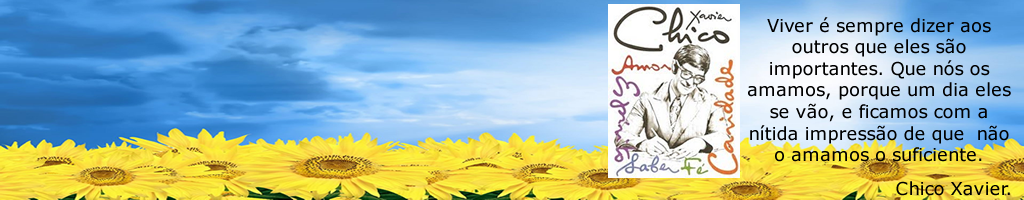
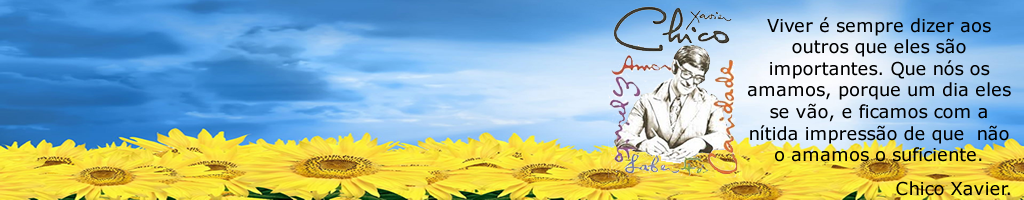
outras melhorias

Changed region(s): [[0.5938, 0.0, 0.75, 0.9]]

diff --git a/cefe-app/src/main/Menu.js b/cefe-app/src/main/Menu.js
@@ -65,13 +65,14 @@ export class Menu extends Component {
                     <div className="collapse navbar-collapse" id="navbarSupportedContent">
                         <ul className="navbar-nav mr-auto">
                         {/*Item Menu Casa Espirita*/}
-                            {casaEspirita.map(link => 
-                            <li className="nav-item dropdown" key={link.route}>
+                            {casaEspirita.map((link, ce) => 
+                            // @ts-ignore
+                            <li className="nav-item dropdown" key={ce}>
                                 <a className="nav-link dropdown-toggle" id="navbarDropdown" role="button" data-toggle="dropdown" aria-haspopup="true" aria-expanded="false">
                                 Casa Espírita
                                 </a>
-                                <div className="dropdown-menu" key={link.Diretoria} aria-labelledby="navbarDropdown">
-                                    <Link className="dropdown-item" to="/quemSomos" target="">Quem Somos</Link>
+                                <div className="dropdown-menu" aria-labelledby="navbarDropdown">
+                                    <Link className="dropdown-item" to={'/quemSomos'}>Quem Somos</Link>
                                     <Link className="dropdown-item" to={'/quemEQuem'}>Quem é quem</Link>
                                     <div className="dropdown-divider"></div>
                                     <div>
@@ -85,12 +86,12 @@ export class Menu extends Component {
                             </li>
                             )}
                             {/*Item Menu de Estudos*/}
-                            {estudos.map(link =>
-                            <li className="nav-item dropdown">
+                            {estudos.map((link, e) =>
+                            <li className="nav-item dropdown" key={e}>
                                 <a className="nav-link dropdown-toggle" id="navbarDropdown" role="button" data-toggle="dropdown" aria-haspopup="true" aria-expanded="false">
                                     Estudos
                             </a>
-                                <div className="dropdown-menu" key={link.Estudos} aria-labelledby="navbarDropdown">
+                                <div className="dropdown-menu" aria-labelledby="navbarDropdown">
                                     <Link className="dropdown-item" to={'/cursos'}>Cursos</Link>
                                     <Link className="dropdown-item" to={'/oficinas'}>Oficinas</Link>
                                     <div className="dropdown-divider"></div>
@@ -106,12 +107,12 @@ export class Menu extends Component {
                             </li>
                             )}
                             {/*Item Menu das Praticas*/}
-                            {pratica.map(link =>
-                            <li className="nav-item dropdown">
+                            {pratica.map((link, p) =>
+                            <li className="nav-item dropdown" key={p}>
                                 <a className="nav-link dropdown-toggle" id="navbarDropdown" role="button" data-toggle="dropdown" aria-haspopup="true" aria-expanded="false">
                                     Práticas
                                 </a>
-                            <div className="dropdown-menu" key={link.Praticas} aria-labelledby="navbarDropdown">
+                            <div className="dropdown-menu" aria-labelledby="navbarDropdown">
                                 <Link className="dropdown-item" to={'/aplicadoresPasses'}>Aplicadores de Passes</Link>
                                 <Link className="dropdown-item" to={'/bazar'}>Bazar</Link>
                                 <Link className="dropdown-item" to={'/eventos'}>Eventos</Link>
@@ -130,6 +131,7 @@ export class Menu extends Component {
                                         Campanhas
                                     </a>
                                     <Link className="dropdown-item" to={'/cecx'}>CE Chico Xavier</Link>
+
                                     <Link className="dropdown-item" to={'/cfas'}>Auta de Souza</Link>
                                     <Link className="dropdown-item" to={'/jlar'}>Jesus no Lar</Link>
                                 </div>                
@@ -137,18 +139,19 @@ export class Menu extends Component {
                             </li>
                             )}
                             {/*Item Menu Artes*/}
-                            {arte.map(link =>
-                                <li className="nav-item dropdown">
+                            {arte.map((link, a) =>
+                                <li className="nav-item dropdown" key={a}>
                                     <a className="nav-link dropdown-toggle" id="navbarDropdown" role="button" data-toggle="dropdown" aria-haspopup="true" aria-expanded="false">
                                         Arte Espírita
                                     </a>
-                                    <div className="dropdown-menu" key={link.Praticas} aria-labelledby="navbarDropdown">
+                                    <div className="dropdown-menu" aria-labelledby="navbarDropdown">
                                         <Link className="dropdown-item" to={'/temgirantes'}>Teatro Mesas Girantes</Link>
                                         <div className="dropdown-divider"></div>
                                         <div>
                                             <a className="nav-link" role="button" data-toggle="dropdown" aria-haspopup="true" aria-expanded="false">
                                                 Corais
                                         </a>
+
                                             <Link className="dropdown-item" to={'/cefe'}>Coral CEFE</Link>
                                             <Link className="dropdown-item" to={'/ciamimai'}>Coral Amigos de Meimei</Link>
                                         </div>
@@ -156,20 +159,23 @@ export class Menu extends Component {
                                 </li>
                             )}  
                             {/*Item Menu Contatos*/}
-                            {contato.map(link =>
-                                <li className="nav-item dropdown">
+                            {contato.map((link, c) =>
+                                <li className="nav-item dropdown" key={c}>
                                     <a className="nav-link dropdown-toggle" id="navbarDropdown" role="button" data-toggle="dropdown" aria-haspopup="true" aria-expanded="false">
                                         Contatos
                                     </a>
-                                    <div className="dropdown-menu" key={link.Praticas} aria-labelledby="navbarDropdown">
+                                    <div className="dropdown-menu" aria-labelledby="navbarDropdown">
                                         <Link className="dropdown-item" to={'/contato'}>Maiores Informações</Link>
                                         <div className="dropdown-divider"></div>
                                         <div>
                                             <a className="nav-link" role="button" data-toggle="dropdown" aria-haspopup="true" aria-expanded="false">
                                                 Redes Sociais
                                         </a>
+
                                             <Link className="dropdown-item" to={'/faceBook'}>FaceBook</Link>
+
                                             <Link className="dropdown-item" to={'/instagram'}>Instagram</Link>
+
                                             <Link className="dropdown-item" to={'/twitter'}>Twitter</Link>
                                         </div>
                                     </div>

diff --git a/cefe-app/public/images/fundoCabecalhoGiraSois.htm b/cefe-app/public/images/fundoCabecalhoGiraSois.htm
@@ -1,0 +1,47 @@
+<!DOCTYPE html PUBLIC "-//W3C//DTD XHTML 1.0 Transitional//EN"
+"http://www.w3.org/TR/xhtml1/DTD/xhtml1-transitional.dtd">
+<!-- saved from url=(0014)about:internet -->
+<html xmlns="http://www.w3.org/1999/xhtml">
+<head>
+<title>fundoCabecalhoGiraSois.jpg</title>
+<meta http-equiv="Content-Type" content="text/html; charset=utf-8" />
+<style type="text/css">td img {display: block;}</style>
+<!--Fireworks CS3 Dreamweaver CS3 target.  Created Thu Aug 23 16:09:28 GMT-0300 (Hora oficial do Brasil) 2018-->
+</head>
+<body bgcolor="#ffffff">
+<table border="0" cellpadding="0" cellspacing="0" width="1024">
+<!-- fwtable fwsrc="fundoCabecalhoGiraSois.png" fwpage="Página 1" fwbase="fundoCabecalhoGiraSois.jpg" fwstyle="Dreamweaver" fwdocid = "426590487" fwnested="0" -->
+  <tr>
+   <td><img src="imagens/spacer.gif" width="52" height="1" border="0" alt="" /></td>
+   <td><img src="imagens/spacer.gif" width="54" height="1" border="0" alt="" /></td>
+   <td><img src="imagens/spacer.gif" width="55" height="1" border="0" alt="" /></td>
+   <td><img src="imagens/spacer.gif" width="78" height="1" border="0" alt="" /></td>
+   <td><img src="imagens/spacer.gif" width="75" height="1" border="0" alt="" /></td>
+   <td><img src="imagens/spacer.gif" width="65" height="1" border="0" alt="" /></td>
+   <td><img src="imagens/spacer.gif" width="74" height="1" border="0" alt="" /></td>
+   <td><img src="imagens/spacer.gif" width="76" height="1" border="0" alt="" /></td>
+   <td><img src="imagens/spacer.gif" width="52" height="1" border="0" alt="" /></td>
+   <td><img src="imagens/spacer.gif" width="27" height="1" border="0" alt="" /></td>
+   <td><img src="imagens/spacer.gif" width="132" height="1" border="0" alt="" /></td>
+   <td><img src="imagens/spacer.gif" width="284" height="1" border="0" alt="" /></td>
+   <td><img src="imagens/spacer.gif" width="1" height="1" border="0" alt="" /></td>
+  </tr>
+
+  <tr>
+   <td><img name="fundoCabecalhoGiraSois_r1_c1" src="imagens/fundoCabecalhoGiraSois_r1_c1.jpg" width="52" height="200" border="0" id="fundoCabecalhoGiraSois_r1_c1" alt="" /></td>
+   <td><img name="fundoCabecalhoGiraSois_r1_c2" src="imagens/fundoCabecalhoGiraSois_r1_c2.jpg" width="54" height="200" border="0" id="fundoCabecalhoGiraSois_r1_c2" alt="" /></td>
+   <td><img name="fundoCabecalhoGiraSois_r1_c3" src="imagens/fundoCabecalhoGiraSois_r1_c3.jpg" width="55" height="200" border="0" id="fundoCabecalhoGiraSois_r1_c3" alt="" /></td>
+   <td><img name="fundoCabecalhoGiraSois_r1_c4" src="imagens/fundoCabecalhoGiraSois_r1_c4.jpg" width="78" height="200" border="0" id="fundoCabecalhoGiraSois_r1_c4" alt="" /></td>
+   <td><img name="fundoCabecalhoGiraSois_r1_c5" src="imagens/fundoCabecalhoGiraSois_r1_c5.jpg" width="75" height="200" border="0" id="fundoCabecalhoGiraSois_r1_c5" alt="" /></td>
+   <td><img name="fundoCabecalhoGiraSois_r1_c6" src="imagens/fundoCabecalhoGiraSois_r1_c6.jpg" width="65" height="200" border="0" id="fundoCabecalhoGiraSois_r1_c6" alt="" /></td>
+   <td><img name="fundoCabecalhoGiraSois_r1_c7" src="imagens/fundoCabecalhoGiraSois_r1_c7.jpg" width="74" height="200" border="0" id="fundoCabecalhoGiraSois_r1_c7" alt="" /></td>
+   <td><img name="fundoCabecalhoGiraSois_r1_c8" src="imagens/fundoCabecalhoGiraSois_r1_c8.jpg" width="76" height="200" border="0" id="fundoCabecalhoGiraSois_r1_c8" alt="" /></td>
+   <td><img name="fundoCabecalhoGiraSois_r1_c9" src="imagens/fundoCabecalhoGiraSois_r1_c9.jpg" width="52" height="200" border="0" id="fundoCabecalhoGiraSois_r1_c9" alt="" /></td>
+   <td><img name="fundoCabecalhoGiraSois_r1_c10" src="imagens/fundoCabecalhoGiraSois_r1_c10.jpg" width="27" height="200" border="0" id="fundoCabecalhoGiraSois_r1_c10" alt="" /></td>
+   <td><img name="fundoCabecalhoGiraSois_r1_c11" src="imagens/fundoCabecalhoGiraSois_r1_c11.jpg" width="132" height="200" border="0" id="fundoCabecalhoGiraSois_r1_c11" alt="" /></td>
+   <td><img name="fundoCabecalhoGiraSois_r1_c12" src="imagens/fundoCabecalhoGiraSois_r1_c12.jpg" width="284" height="200" border="0" id="fundoCabecalhoGiraSois_r1_c12" alt="" /></td>
+   <td><img src="imagens/spacer.gif" width="1" height="200" border="0" alt="" /></td>
+  </tr>
+</table>
+</body>
+</html>

diff --git a/cefe-app/src/components/Cabecalho/fundoCabecalhoGiraSois.htm b/cefe-app/src/components/Cabecalho/fundoCabecalhoGiraSois.htm
@@ -1,0 +1,47 @@
+<!DOCTYPE html PUBLIC "-//W3C//DTD XHTML 1.0 Transitional//EN"
+"http://www.w3.org/TR/xhtml1/DTD/xhtml1-transitional.dtd">
+<!-- saved from url=(0014)about:internet -->
+<html xmlns="http://www.w3.org/1999/xhtml">
+<head>
+<title>fundoCabecalhoGiraSois.jpg</title>
+<meta http-equiv="Content-Type" content="text/html; charset=utf-8" />
+<style type="text/css">td img {display: block;}</style>
+<!--Fireworks CS3 Dreamweaver CS3 target.  Created Thu Aug 23 16:05:01 GMT-0300 (Hora oficial do Brasil) 2018-->
+</head>
+<body bgcolor="#ffffff">
+<table border="0" cellpadding="0" cellspacing="0" width="1024">
+<!-- fwtable fwsrc="fundoCabecalhoGiraSois.png" fwpage="Página 1" fwbase="fundoCabecalhoGiraSois.jpg" fwstyle="Dreamweaver" fwdocid = "426590487" fwnested="0" -->
+  <tr>
+   <td><img src="imagens/spacer.gif" width="52" height="1" border="0" alt="" /></td>
+   <td><img src="imagens/spacer.gif" width="54" height="1" border="0" alt="" /></td>
+   <td><img src="imagens/spacer.gif" width="55" height="1" border="0" alt="" /></td>
+   <td><img src="imagens/spacer.gif" width="78" height="1" border="0" alt="" /></td>
+   <td><img src="imagens/spacer.gif" width="75" height="1" border="0" alt="" /></td>
+   <td><img src="imagens/spacer.gif" width="65" height="1" border="0" alt="" /></td>
+   <td><img src="imagens/spacer.gif" width="74" height="1" border="0" alt="" /></td>
+   <td><img src="imagens/spacer.gif" width="76" height="1" border="0" alt="" /></td>
+   <td><img src="imagens/spacer.gif" width="52" height="1" border="0" alt="" /></td>
+   <td><img src="imagens/spacer.gif" width="27" height="1" border="0" alt="" /></td>
+   <td><img src="imagens/spacer.gif" width="132" height="1" border="0" alt="" /></td>
+   <td><img src="imagens/spacer.gif" width="284" height="1" border="0" alt="" /></td>
+   <td><img src="imagens/spacer.gif" width="1" height="1" border="0" alt="" /></td>
+  </tr>
+
+  <tr>
+   <td><img name="fundoCabecalhoGiraSois_r1_c1" src="imagens/fundoCabecalhoGiraSois_r1_c1.jpg" width="52" height="200" border="0" id="fundoCabecalhoGiraSois_r1_c1" alt="" /></td>
+   <td><img name="fundoCabecalhoGiraSois_r1_c2" src="imagens/fundoCabecalhoGiraSois_r1_c2.jpg" width="54" height="200" border="0" id="fundoCabecalhoGiraSois_r1_c2" alt="" /></td>
+   <td><img name="fundoCabecalhoGiraSois_r1_c3" src="imagens/fundoCabecalhoGiraSois_r1_c3.jpg" width="55" height="200" border="0" id="fundoCabecalhoGiraSois_r1_c3" alt="" /></td>
+   <td><img name="fundoCabecalhoGiraSois_r1_c4" src="imagens/fundoCabecalhoGiraSois_r1_c4.jpg" width="78" height="200" border="0" id="fundoCabecalhoGiraSois_r1_c4" alt="" /></td>
+   <td><img name="fundoCabecalhoGiraSois_r1_c5" src="imagens/fundoCabecalhoGiraSois_r1_c5.jpg" width="75" height="200" border="0" id="fundoCabecalhoGiraSois_r1_c5" alt="" /></td>
+   <td><img name="fundoCabecalhoGiraSois_r1_c6" src="imagens/fundoCabecalhoGiraSois_r1_c6.jpg" width="65" height="200" border="0" id="fundoCabecalhoGiraSois_r1_c6" alt="" /></td>
+   <td><img name="fundoCabecalhoGiraSois_r1_c7" src="imagens/fundoCabecalhoGiraSois_r1_c7.jpg" width="74" height="200" border="0" id="fundoCabecalhoGiraSois_r1_c7" alt="" /></td>
+   <td><img name="fundoCabecalhoGiraSois_r1_c8" src="imagens/fundoCabecalhoGiraSois_r1_c8.jpg" width="76" height="200" border="0" id="fundoCabecalhoGiraSois_r1_c8" alt="" /></td>
+   <td><img name="fundoCabecalhoGiraSois_r1_c9" src="imagens/fundoCabecalhoGiraSois_r1_c9.jpg" width="52" height="200" border="0" id="fundoCabecalhoGiraSois_r1_c9" alt="" /></td>
+   <td><img name="fundoCabecalhoGiraSois_r1_c10" src="imagens/fundoCabecalhoGiraSois_r1_c10.jpg" width="27" height="200" border="0" id="fundoCabecalhoGiraSois_r1_c10" alt="" /></td>
+   <td><img name="fundoCabecalhoGiraSois_r1_c11" src="imagens/fundoCabecalhoGiraSois_r1_c11.jpg" width="132" height="200" border="0" id="fundoCabecalhoGiraSois_r1_c11" alt="" /></td>
+   <td><img name="fundoCabecalhoGiraSois_r1_c12" src="imagens/fundoCabecalhoGiraSois_r1_c12.jpg" width="284" height="200" border="0" id="fundoCabecalhoGiraSois_r1_c12" alt="" /></td>
+   <td><img src="imagens/spacer.gif" width="1" height="200" border="0" alt="" /></td>
+  </tr>
+</table>
+</body>
+</html>

diff --git a/cefe-app/src/components/Cabecalho/cabecalho.js b/cefe-app/src/components/Cabecalho/cabecalho.js
@@ -2,21 +2,17 @@ import React, { Component } from 'react';
 import './css/cabecalho.css';
 import Flexbox from 'flexbox-react';
 import { Link } from 'react-router-dom';
-import Home from './../Home';
 
-const home = [
-    {
-        Home: [
-            { route: "/", label: "Home" },
-        ]
-    },
+const routes = [
+    { route: "/", label: "Home" },
 ];
 class Cabecalho extends Component{
     render(){
         return(
             <Flexbox className="cabecalho">
-            {home.map(link => 
-                <Link className="link" to={'/'} style={{ textDecoration: 'none' }}>
+            {routes.map((link, i) => 
+                // @ts-ignore
+                <Link key={i} to={'/'} style={{ textDecoration: 'none' }}>
                 <Flexbox className="app-cabecalho">
                     <Flexbox className="logo" >
                         <Flexbox className="logoCEFE">
@@ -31,7 +27,7 @@ class Cabecalho extends Component{
                     </Flexbox>
                     </Flexbox>
                     </Link>
-                )}
+            )}
             </Flexbox>        
 
         );

diff --git a/cefe-app/src/index.js b/cefe-app/src/index.js
@@ -3,31 +3,5 @@ import ReactDOM from 'react-dom';
 
 import App from './main/App';
 
-// const PrivateRoute = ({ component: Component, ...rest }) => (
-//     <Route {...rest} render={props => (
-//         window.sessionStorage.getItem('chave') ? (
-//             <Component {...props} />
-//         ) : (
-//                 <Redirect to={{
-//                     pathname: '/',
-//                     state: { from: props.location }
-//                 }} />
-//             )
-//     )} />
-// );
-
-// const PublicRoute = ({ component: Component, ...rest }) => (
-//     <Route {...rest} render={props => (
-//         window.sessionStorage.getItem('chave') ? (
-//             <Redirect to={{
-//                 pathname: '/admin/index',
-//                 state: { from: props.location }
-//             }} />
-//         ) : (
-//                 <Component {...props} />
-//             )
-//     )} />
-// )
-
 ReactDOM.render(<App />, document.getElementById('root'));
 

diff --git a/cefe-app/src/components/Corpo/corpo.js b/cefe-app/src/components/Corpo/corpo.js
@@ -3,8 +3,6 @@ import Menu from './../../main/Menu';
 import './css/corpo.css';
 import Routes from './../../main/Routes';
 
-import HowNoticias from './HowNoticias/tresNoticasRapidas';
-
 class Corpo extends Component {
     constructor(props){
         super(props);
@@ -15,7 +13,7 @@ class Corpo extends Component {
 
     render(){
         return(
-            <div className="corpo transparentView" >
+            <div className="corpo" >
                 <Menu />
                 <Routes/>
             </div>

diff --git a/cefe-app/src/components/NoMatch.js b/cefe-app/src/components/NoMatch.js
@@ -1,10 +1,13 @@
 import React, { Component } from 'react'
+import HowNoticias from './../components/Corpo/HowNoticias/tresNoticasRapidas';
 
 export class NoMatch extends Component {
     render () {
         return (
             <div>
-                <h1>Conteúdo não encontrado!!</h1>
+                <HowNoticias/>
+                <h4>Conteúdo não encontrado!!</h4>
+                <p>Favor verifique o endereço digitado..</p>
             </div>
         )
     }

diff --git a/cefe-app/src/components/Cabecalho/css/cabecalho.css b/cefe-app/src/components/Cabecalho/css/cabecalho.css
@@ -22,18 +22,19 @@ img{
 	align-items: center;
 	z-index: 1;
 }
-	#logoCEFE{
+	.logoCEFE{
 		flex-wrap: wrap;
 		cursor: pointer;
-		height: 50%;
+		height: 42%;
 		margin-left: 3%;
-		margin-top: 6%;
+		margin-top: -15%;
 		text-decoration: none;
 	}
 	.textologoCEFE{
 		flex: 1;
-		margin-left: 3%;
-		margin-top: 14%;
+		margin-left: 1%;
+		margin-top: -6%;
+		padding: 0px;
 		cursor: pointer;
 		font-size: 22px;
 		color:white;

diff --git a/cefe-app/src/main/App.js b/cefe-app/src/main/App.js
@@ -9,6 +9,7 @@ import './../css-pagina.css';
 class App extends Component {
   render() {
     return (
+      // @ts-ignore
       <Router>
         <Flexbox minHeight="100vh" className="appContener">
           <Flexbox element="header" height="200px">

diff --git a/cefe-app/src/components/Corpo/HowNoticias/tresNoticasRapidas.js b/cefe-app/src/components/Corpo/HowNoticias/tresNoticasRapidas.js
@@ -10,7 +10,7 @@ export default class TresNoticiasRapidas extends React.Component {
             terceiraNotica: ''
         }
     }
-
+ 
     render(){
         return (
             <div className="containerHowNoticias">

diff --git a/cefe-app/src/components/Corpo/css/howNoticias.css b/cefe-app/src/components/Corpo/css/howNoticias.css
@@ -5,7 +5,7 @@
     margin-right: auto;
     margin-top: 15px;
     width: 95%;
-    height: 200px;
+    height: 150px;
     background-color: #FFFF;
     border: solid 1px #000000;
     margin-bottom: 1.5%;

diff --git a/cefe-app/src/components/Corpo/css/corpo.css b/cefe-app/src/components/Corpo/css/corpo.css
@@ -13,11 +13,5 @@
     widows: 100%;
     height: 600px;
 }
-.transparentView{
-    flex: 1;
-    background-color: transparent;
-    justify-content: center;
-    position: 'absolute';
-}
 
 
